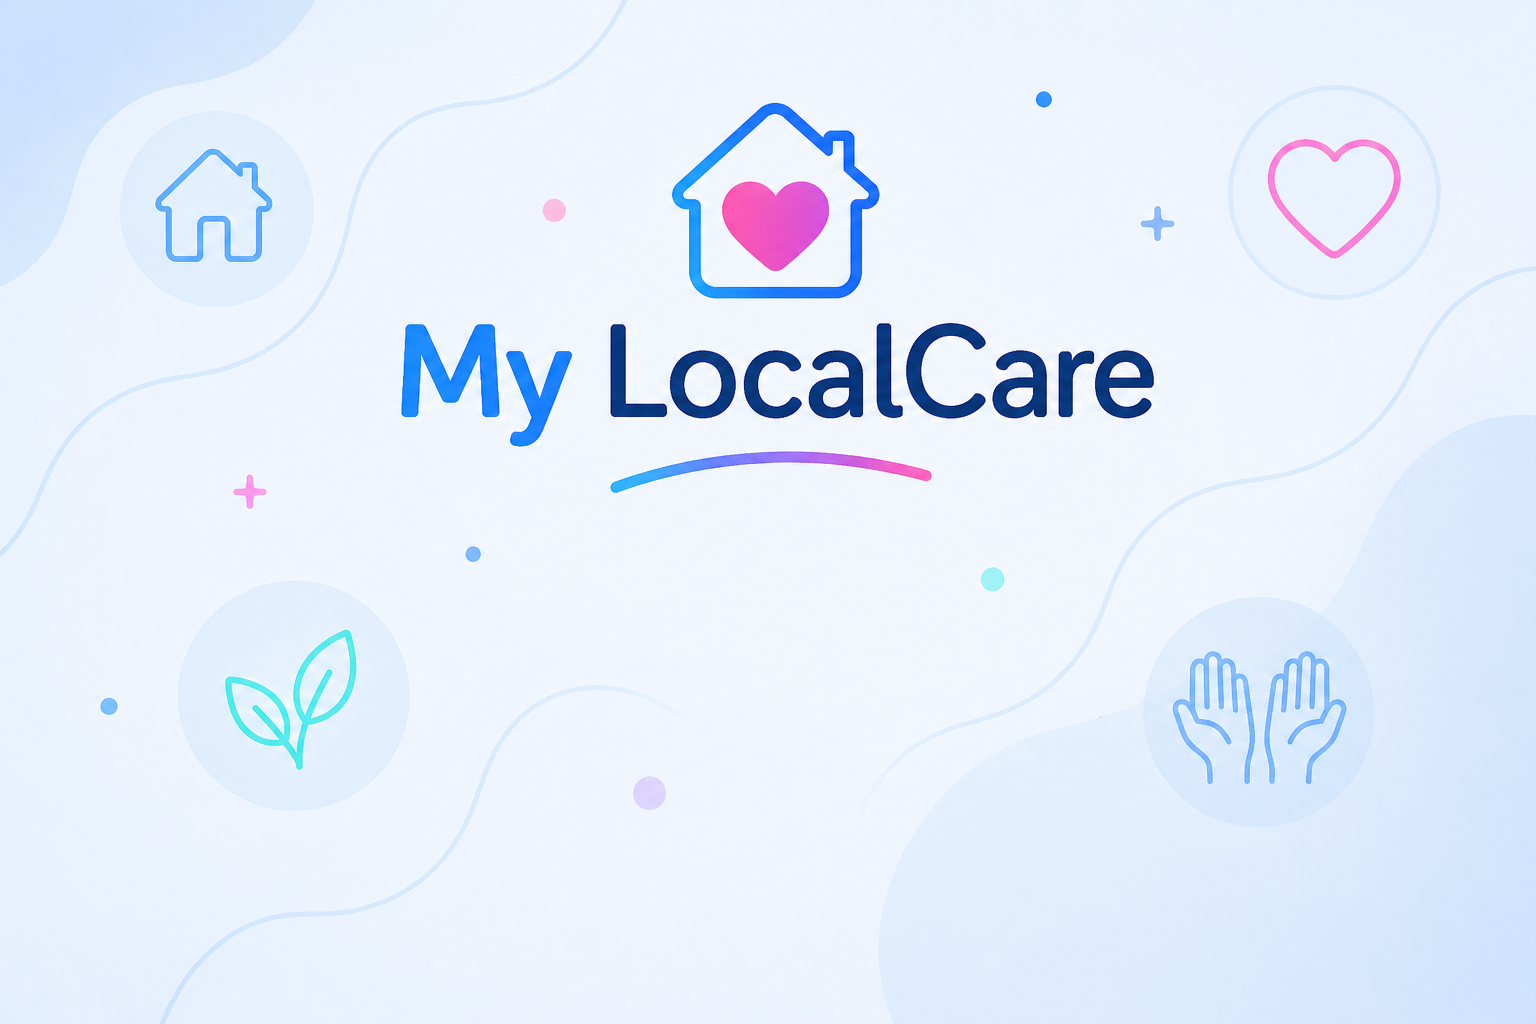
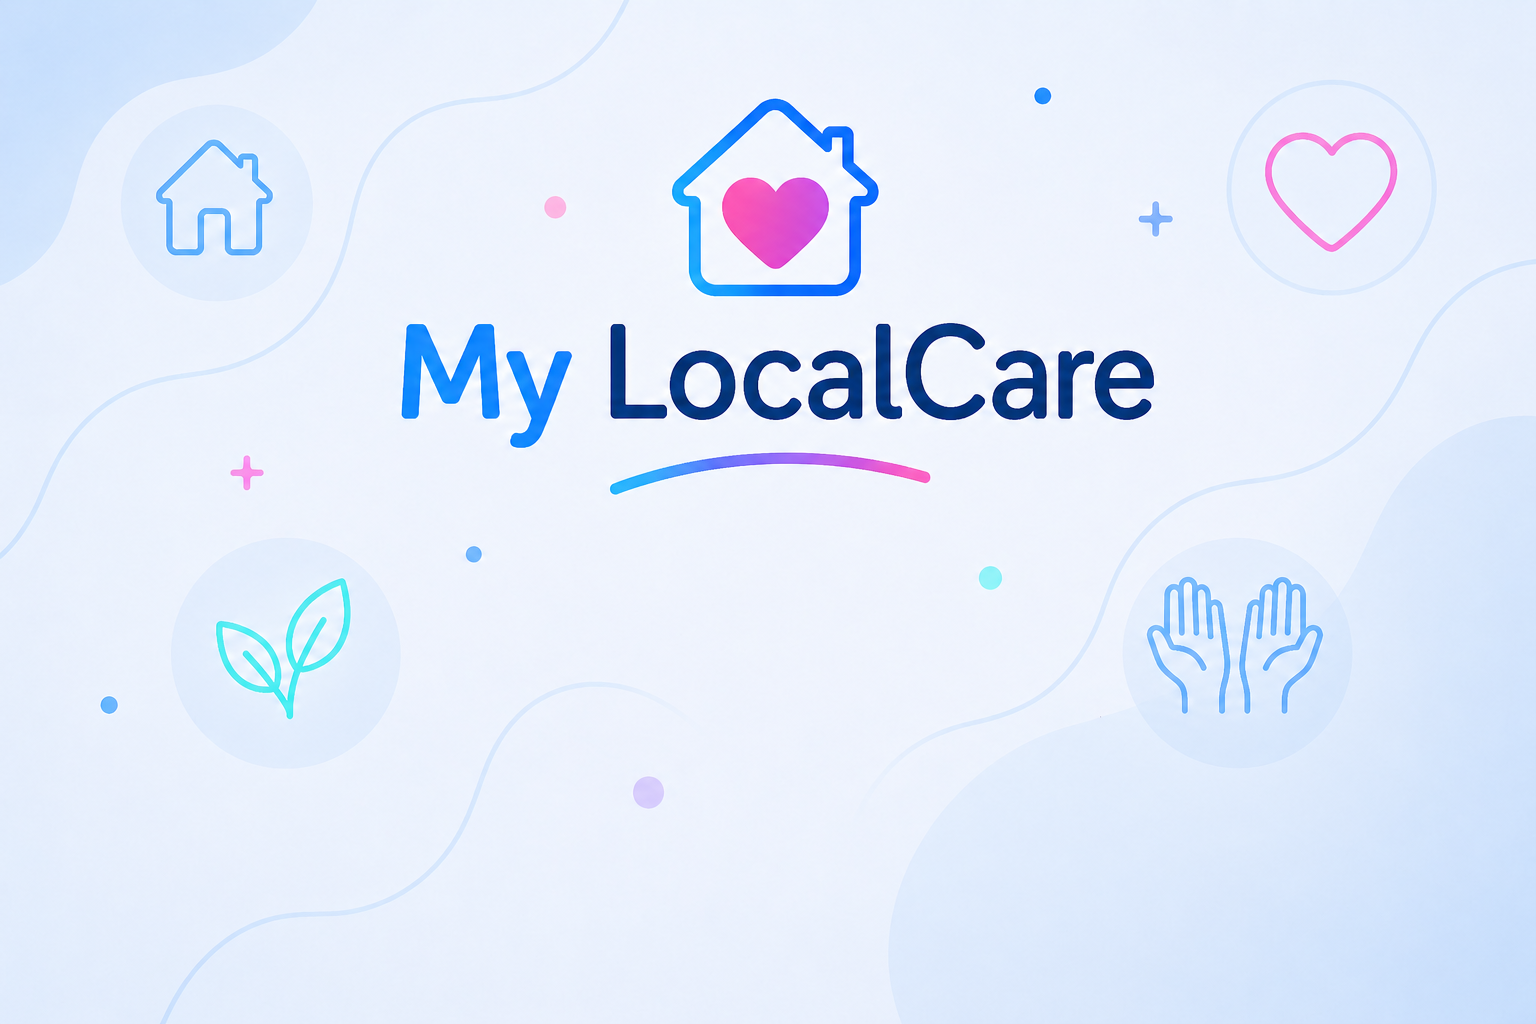
Fix

diff --git a/templates/dashboard.html b/templates/dashboard.html
@@ -1047,44 +1047,35 @@
   }
 
   /* ============================================================
-     COPERTINA PROFILO — DEFAULT + FOTO UTENTE
+     COPERTINA PROFILO — BANNER PIENO
      ============================================================ */
 
   .profilo-cover-img {
     display: block;
     width: 100%;
     height: 100%;
-  }
-
-  /*
-     Default MyLocalCare:
-     deve vedersi tutta, perché contiene logo/testo/grafiche.
-  */
-  .cover-default-img {
-    object-fit: contain;
-    object-position: center center;
-    background: #eef6ff;
-  }
-
-  /*
-     Foto caricate dagli utenti:
-     devono comportarsi come una vera copertina.
-  */
-  .cover-user-img {
     object-fit: cover;
+  }
+
+  /* Default MyLocalCare: teniamo logo e grafiche più in alto */
+  .cover-default-img {
+    object-position: center 30%;
+  }
+
+  /* Foto caricate dagli utenti: comportamento da vera cover */
+  .cover-user-img {
     object-position: center 38%;
   }
 
   @media (max-width: 640px) {
     .cover-default-img {
-      object-fit: cover;
-      object-position: center 30%;
+      object-position: center 26%;
     }
 
     .cover-user-img {
       object-position: center 34%;
     }
-  }  
+  }
 
   .hero-cover-card::after {
     content: "";
